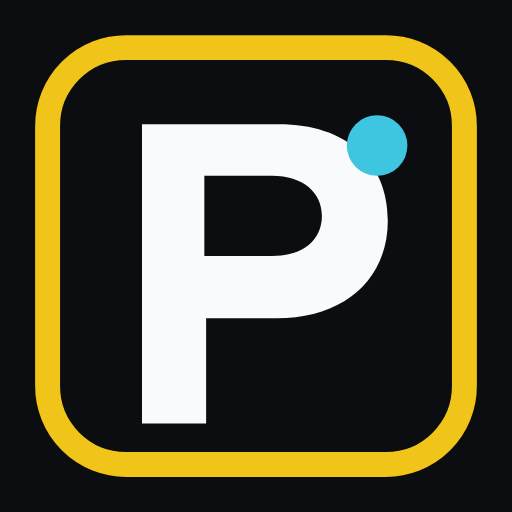
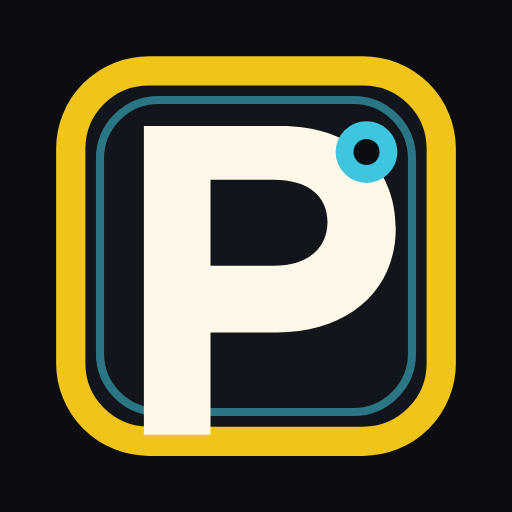
Force a new Parkizmus PWA identity
New app id, PNG/ICO favicons, and a root manifest so home-screen
install no longer reuses the old Grok App shortcut.

diff --git a/src/routes/__root.tsx b/src/routes/__root.tsx
@@ -22,10 +22,15 @@ export const Route = createRootRoute({
       { name: "application-name", content: "Parkizmus" },
     ],
     links: [
+      { rel: "icon", href: "/favicon.ico", sizes: "48x48" },
+      { rel: "icon", type: "image/png", sizes: "32x32", href: "/favicon-32.png" },
+      { rel: "icon", type: "image/png", sizes: "192x192", href: "/icon-192.png" },
       { rel: "icon", type: "image/svg+xml", href: "/favicon.svg" },
-      { rel: "stylesheet", href: appCss },
-      { rel: "manifest", href: "/__grok/manifest.webmanifest" },
+      { rel: "apple-touch-icon", sizes: "180x180", href: "/apple-touch-icon.png" },
       { rel: "apple-touch-icon", href: "/__grok/icon-180.png" },
+      { rel: "stylesheet", href: appCss },
+      { rel: "manifest", href: "/manifest.webmanifest" },
+      { rel: "manifest", href: "/__grok/manifest.webmanifest" },
       { rel: "preload", as: "image", href: "/symbols/rj45.png" },
       { rel: "preload", as: "image", href: "/symbols/router.png" },
       { rel: "preload", as: "image", href: "/symbols/hap.png" },

diff --git a/server/middleware/grok-pwa.ts b/server/middleware/grok-pwa.ts
@@ -70,7 +70,12 @@ export default async function grokPwaMiddleware(
   const path = event.url.pathname;
   const urlWithQuery = path + event.url.search;
 
-  if (path === "/__grok/manifest.webmanifest" || path === "/__grok/manifest.json") {
+  if (
+    path === "/__grok/manifest.webmanifest" ||
+    path === "/__grok/manifest.json" ||
+    path === "/manifest.webmanifest" ||
+    path === "/manifest.json"
+  ) {
     return new Response(renderWebManifest(requestHost(event), grokOgIdentity.site), {
       headers: {
         "content-type": "application/manifest+json; charset=utf-8",
